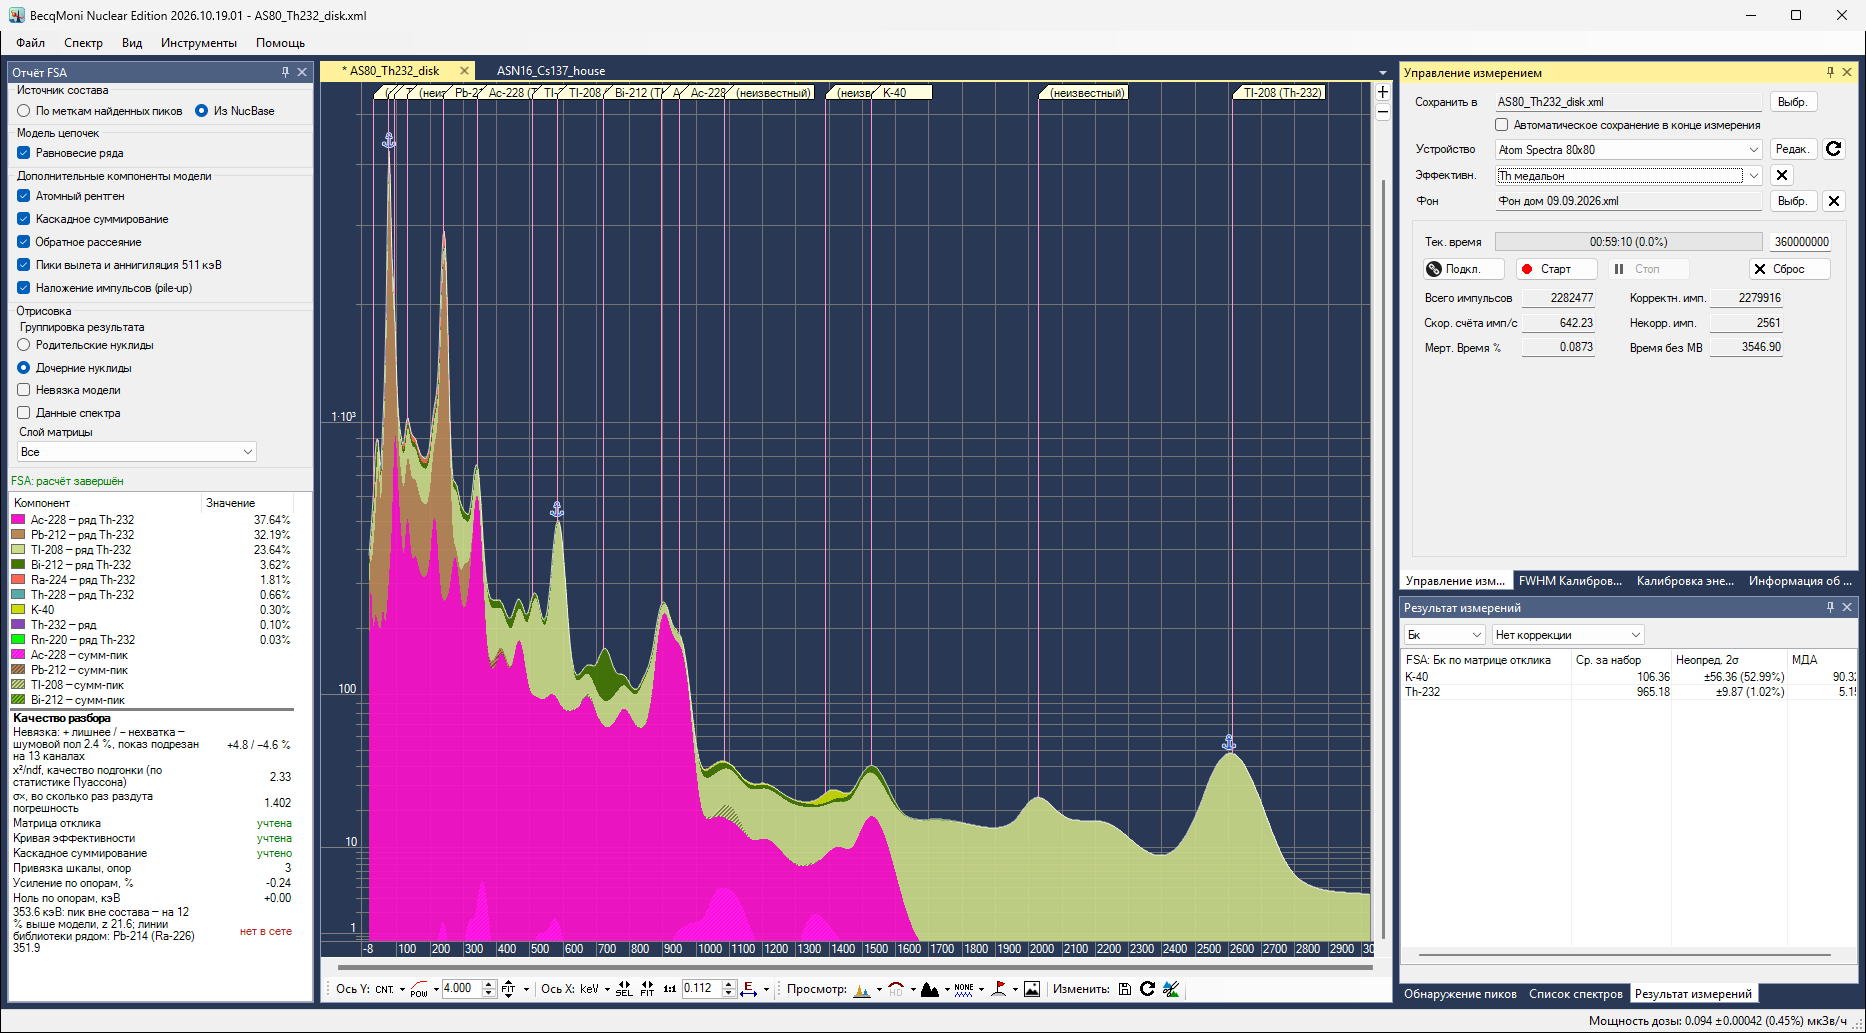
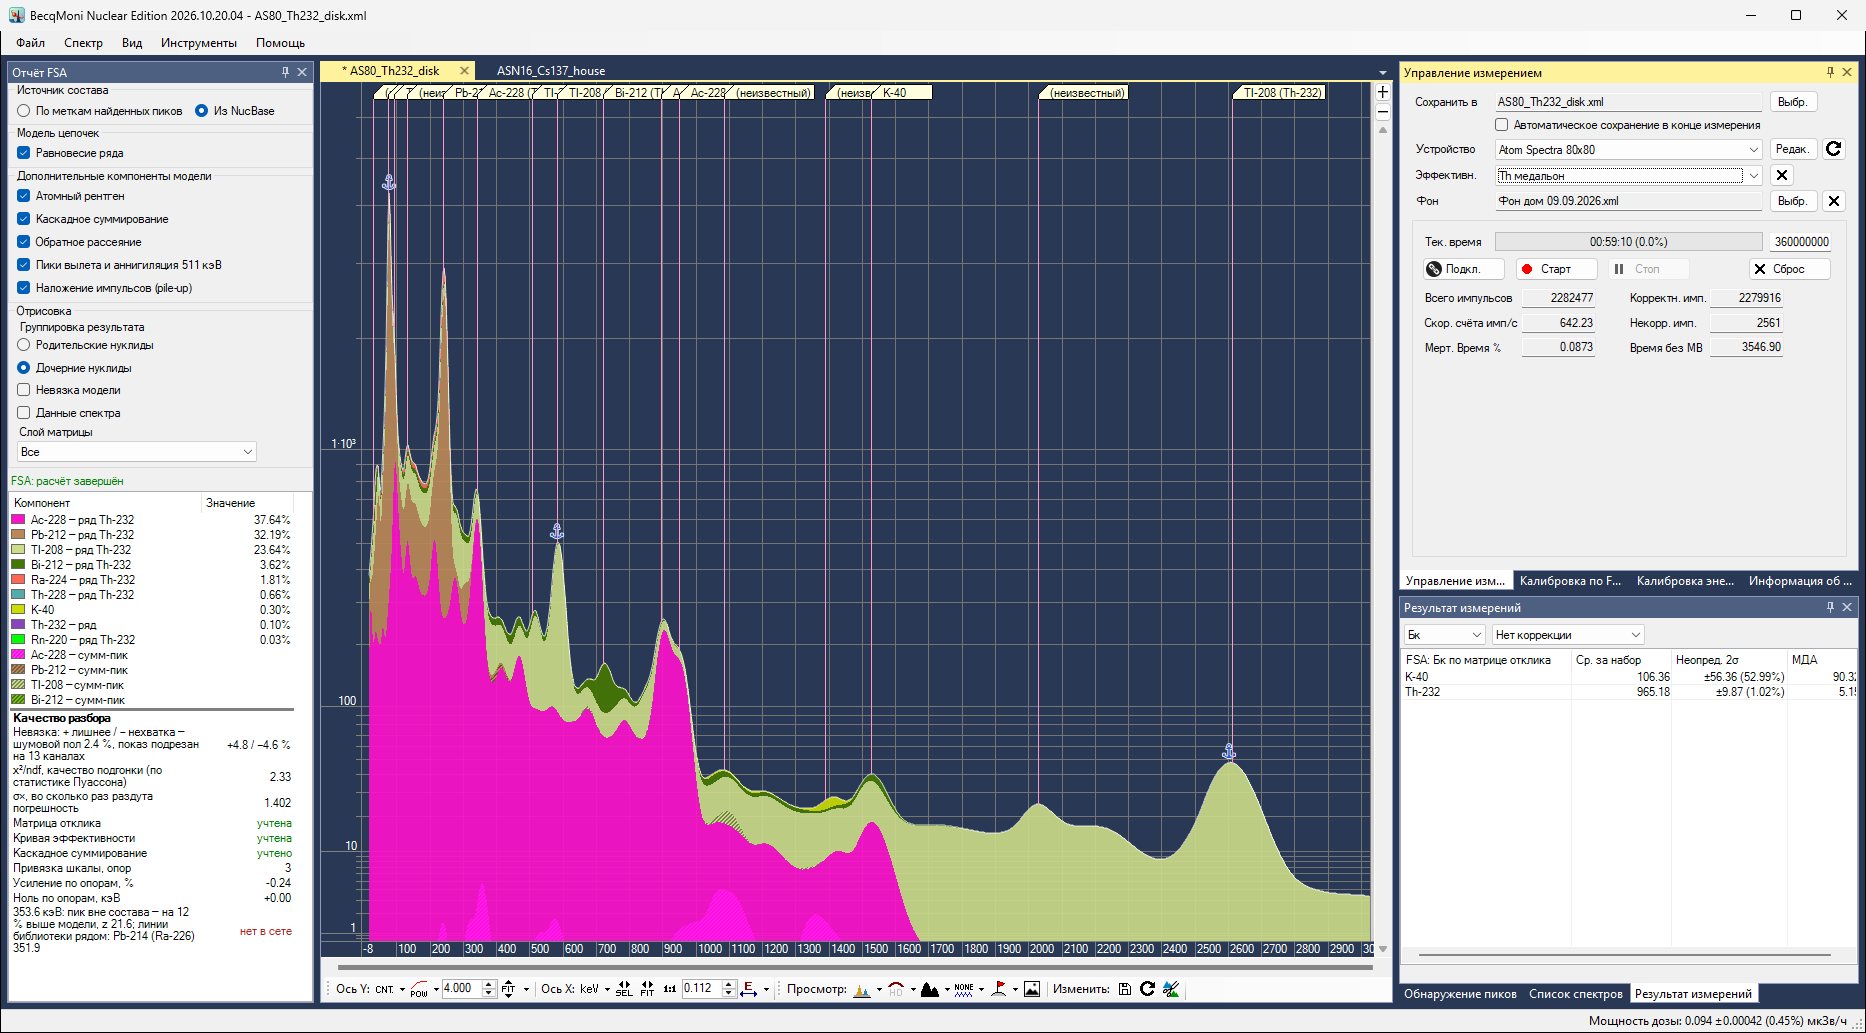
AMBER259 (22.10.2026): снимки гида — вкладка «Калибровка по FWHM» вместо «FWHM Калибров…»
По слову Amber («Почини amber259 потом коммит и пуш и на сервер выкладывай») пересняты
русские снимки, где в полосе вкладок правого верхнего дока стояла прежняя подпись:
ru/main, ru/main-fsa (сборка 2026.10.20.04) и вырезки ru/panel-control, ru/panel-ecal,
ru/panel-sample. Состояние окон — как на прежних снимках (те же документы, режимы и
числа FSA); на время съёмки в копию программы положен склад матриц физики 27, иначе FSA
писал «Матрица отклика — устарела». Раскладка прежняя: точки data-hot и цели игры
«Найдите на экране» сверены наложением. Английские снимки не менялись.

Метки версий гида обновлены (docs_stamp). check_all — 46 из 46.

TODO.md: AMBER259 закрыта.

diff --git a/docs/assets/guide.js b/docs/assets/guide.js
@@ -135,7 +135,7 @@
 
   /* ── снимки окон: img/<язык>/<id>.png, точки из data-hot (доли ширины/высоты) ── */
   // версия снимков: её ставит tools/docs_stamp.py перед заливкой — новый снимок под старым именем не берётся из кэша (`AMBER248`)
-  const IMGV = 'dd7ac90f';
+  const IMGV = '3ee68564';
   function buildShots() {
     $$('figure.shot[data-shot]').forEach(fig => {
       const id = fig.dataset.shot;

diff --git a/docs/devices.html b/docs/devices.html
@@ -253,7 +253,7 @@ ol.chk>li.done::before{content:"✓";background:var(--ok);color:#06210f;border-c
 
 <footer><div class="wrap" data-t="foot"></div></footer>
 
-<script src="assets/guide.js?v=f94cf66c"></script>
+<script src="assets/guide.js?v=648877f6"></script>
 <script src="assets/quanta.js?v=67b2c2dc"></script>
 <script>
 /* Монте-Карло-сцена главы (`AMBER246`) */

diff --git a/docs/geometry.html b/docs/geometry.html
@@ -256,7 +256,7 @@ figure.shot.side>ol.shot-legend{grid-column:2;grid-row:1 / span 2;margin-top:0}
 
 <footer><div class="wrap" data-t="foot"></div></footer>
 
-<script src="assets/guide.js?v=f94cf66c"></script>
+<script src="assets/guide.js?v=648877f6"></script>
 <script src="assets/quanta.js?v=67b2c2dc"></script>
 <script>
 /* Монте-Карло-сцена главы (`AMBER246`) */

diff --git a/docs/fsa.html b/docs/fsa.html
@@ -211,7 +211,7 @@ figure.shot.side.tall>.shot-frame{max-width:330px;width:100%}
 
 <footer><div class="wrap" data-t="foot"></div></footer>
 
-<script src="assets/guide.js?v=f94cf66c"></script>
+<script src="assets/guide.js?v=648877f6"></script>
 <script src="assets/quanta.js?v=67b2c2dc"></script>
 <script>
 /* Монте-Карло-сцена главы (`AMBER246`) */

diff --git a/docs/result.html b/docs/result.html
@@ -205,7 +205,7 @@ figure.shot.wide{margin-top:22px}
 
 <footer><div class="wrap" data-t="foot"></div></footer>
 
-<script src="assets/guide.js?v=f94cf66c"></script>
+<script src="assets/guide.js?v=648877f6"></script>
 <script src="assets/quanta.js?v=67b2c2dc"></script>
 <script>
 /* Монте-Карло-сцена главы (`AMBER246`) */

diff --git a/docs/install.html b/docs/install.html
@@ -258,7 +258,7 @@ figure.shot.side.md .shot-frame{width:100%;max-width:470px;justify-self:center}
 
 <footer><div class="wrap" data-t="foot"></div></footer>
 
-<script src="assets/guide.js?v=f94cf66c"></script>
+<script src="assets/guide.js?v=648877f6"></script>
 <script src="assets/quanta.js?v=67b2c2dc"></script>
 <script>
 'use strict';

diff --git a/docs/acquire.html b/docs/acquire.html
@@ -189,7 +189,7 @@ figure.shot[data-shot=panel-sample] .shot-frame{max-width:440px;margin:0 auto}
 
 <footer><div class="wrap" data-t="foot"></div></footer>
 
-<script src="assets/guide.js?v=f94cf66c"></script>
+<script src="assets/guide.js?v=648877f6"></script>
 <script src="assets/quanta.js?v=67b2c2dc"></script>
 <script>
 'use strict';

diff --git a/docs/peaks.html b/docs/peaks.html
@@ -193,7 +193,7 @@ table.cand tr.riv td{background:rgba(255,160,60,.08)}
 
 <footer><div class="wrap" data-t="foot"></div></footer>
 
-<script src="assets/guide.js?v=f94cf66c"></script>
+<script src="assets/guide.js?v=648877f6"></script>
 <script src="assets/quanta.js?v=67b2c2dc"></script>
 <script>
 'use strict';

diff --git a/docs/files.html b/docs/files.html
@@ -197,7 +197,7 @@ details.faq .a q{color:#ffd8b0;quotes:"«" "»"}
 
 <footer><div class="wrap" data-t="foot"></div></footer>
 
-<script src="assets/guide.js?v=f94cf66c"></script>
+<script src="assets/guide.js?v=648877f6"></script>
 <script src="assets/quanta.js?v=67b2c2dc"></script>
 <script>
 'use strict';

diff --git a/docs/calibration.html b/docs/calibration.html
@@ -125,7 +125,7 @@
 
 <footer><div class="wrap" data-t="foot"></div></footer>
 
-<script src="assets/guide.js?v=f94cf66c"></script>
+<script src="assets/guide.js?v=648877f6"></script>
 <script src="assets/quanta.js?v=67b2c2dc"></script>
 <script>
 'use strict';

diff --git a/docs/preface.html b/docs/preface.html
@@ -203,7 +203,7 @@
 
 <footer><div class="wrap" data-t="foot"></div></footer>
 
-<script src="assets/guide.js?v=f94cf66c"></script>
+<script src="assets/guide.js?v=648877f6"></script>
 <script src="assets/quanta.js?v=67b2c2dc"></script>
 <script>
 'use strict';

diff --git a/docs/view.html b/docs/view.html
@@ -203,7 +203,7 @@
 
 <footer><div class="wrap" data-t="foot"></div></footer>
 
-<script src="assets/guide.js?v=f94cf66c"></script>
+<script src="assets/guide.js?v=648877f6"></script>
 <script src="assets/quanta.js?v=67b2c2dc"></script>
 <script>
 'use strict';
